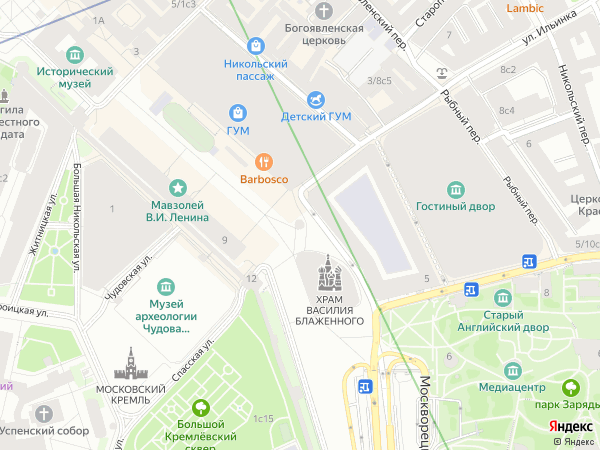
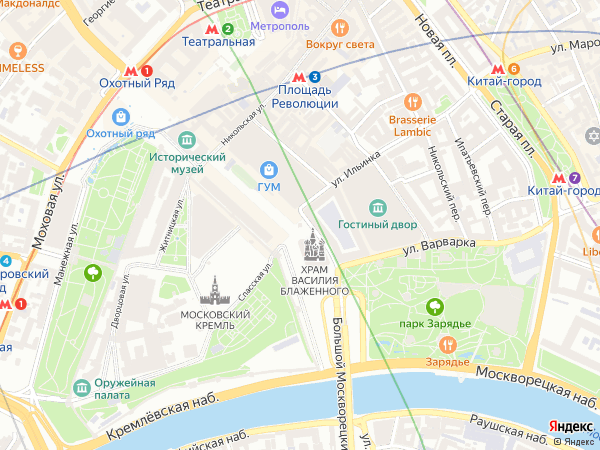
add up, dw, left, right

diff --git a/main.py b/main.py
@@ -25,6 +25,14 @@ class MainWidget(QMainWindow):
         if event.key() == Qt.Key_PageDown:
             if self.delta < 5:
                 self.delta += 0.005
+        if event.key() == Qt.Key_Up:
+            self.map.cord(0, 0.001)
+        if event.key() == Qt.Key_Left:
+            self.map.cord(-0.001, 0)
+        if event.key() == Qt.Key_Right:
+            self.map.cord(0.001, 0)
+        if event.key() == Qt.Key_Down:
+            self.map.cord(0, -0.001)
         self.rendering()
 
     def rendering(self):

diff --git a/log.py b/log.py
@@ -4,12 +4,17 @@ import requests
 from PIL import Image
 import PyQt5
 
+
 class Map:
 
     def __init__(self):
         self.delta = "0.005"
         self.toponym_longitude = ""
         self.toponym_lattitude = ""
+
+    def cord(self, longitude, lattitude):
+        self.toponym_lattitude = str(float(self.toponym_lattitude) + float(lattitude))
+        self.toponym_longitude = str(float(self.toponym_longitude) + float(longitude))
 
     def toponim(self, name):
         toponym_to_find = name
